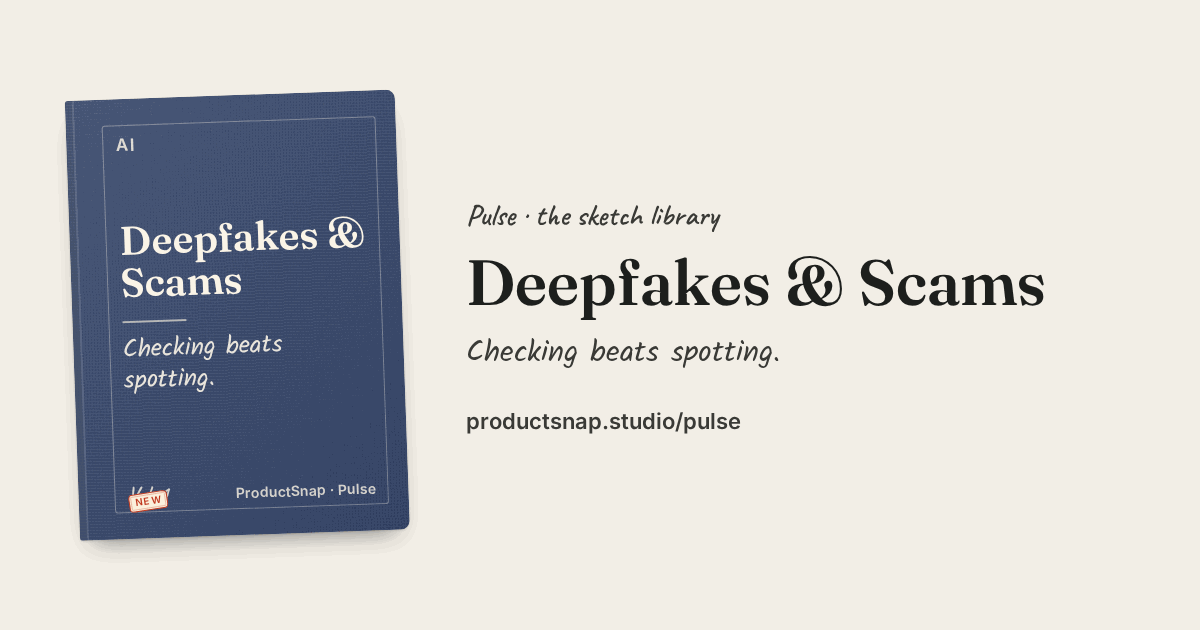
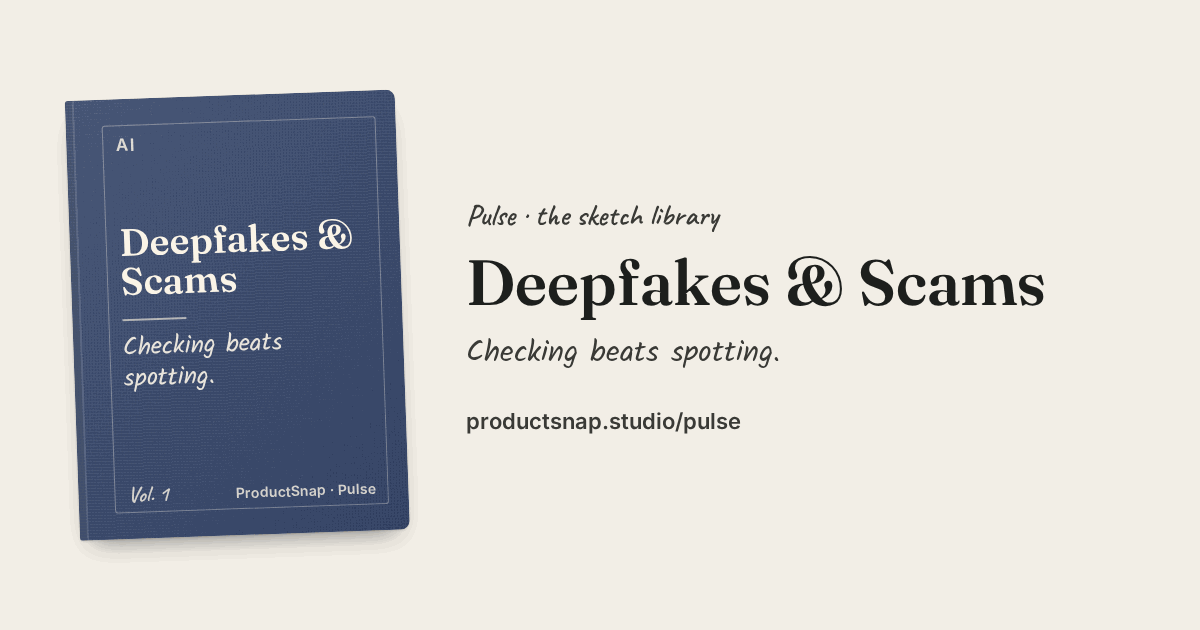
Staging: topic colours (Fintech plum, Macro green), Tech rules removed, og regenerated

Changed region(s): [[0.0925, 0.3317, 0.3083, 0.5127], [0.0925, 0.5127, 0.2467, 0.6333], [0.0925, 0.7841, 0.1542, 0.8143]]

diff --git a/css/pulse.css b/css/pulse.css
@@ -1,7 +1,7 @@
 /* Pulse — the sketch library. Uses site tokens from css/style.css. */
-:root { --t-ai:#2c3e66; --t-tech:#b7792b; --t-macro:#5f7a5a; --t-fintech:#2f6b6a; --new:#e0679a; --shelf-wood:rgba(29,31,29,.08); }
-[data-theme="dark"] { --t-ai:#8fa6d6; --t-tech:#e0ad66; --t-macro:#9cbb93; --t-fintech:#7fc0bb; --new:#f08bb5; --shelf-wood:rgba(243,234,217,.08); }
-.t-ai{--tc:var(--t-ai)} .t-tech{--tc:var(--t-tech)} .t-macro{--tc:var(--t-macro)} .t-fintech{--tc:var(--t-fintech)}
+:root { --t-ai:#2c3e66; --t-macro:#3b7436; --t-fintech:#7535b6; --new:#e0679a; --shelf-wood:rgba(29,31,29,.08); }
+[data-theme="dark"] { --t-ai:#8fa6d6; --t-macro:#8fd08a; --t-fintech:#b779d8; --new:#f08bb5; --shelf-wood:rgba(243,234,217,.08); }
+.t-ai{--tc:var(--t-ai)} .t-macro{--tc:var(--t-macro)} .t-fintech{--tc:var(--t-fintech)}
 .sr-only{position:absolute;width:1px;height:1px;overflow:hidden;clip:rect(0 0 0 0);white-space:nowrap}
 
 .lib{max-width:1180px;margin:0 auto;padding:clamp(28px,6vw,72px) clamp(16px,4vw,40px) 80px}
@@ -25,7 +25,6 @@
 .chip:hover{border-color:var(--ink)}
 .chip[aria-pressed="true"]{background:var(--ink);color:var(--paper);border-color:var(--ink)}
 .chip.c-ai[aria-pressed="true"]{background:var(--t-ai);border-color:var(--t-ai)}
-.chip.c-tech[aria-pressed="true"]{background:var(--t-tech);border-color:var(--t-tech)}
 .chip.c-macro[aria-pressed="true"]{background:var(--t-macro);border-color:var(--t-macro)}
 .chip.c-fintech[aria-pressed="true"]{background:var(--t-fintech);border-color:var(--t-fintech)}
 .chip:disabled{opacity:.4;cursor:default}
@@ -46,13 +45,11 @@
     linear-gradient(135deg,rgba(255,255,255,.10),rgba(0,0,0,.12));
   color:#fbf5e8}
 .t-ai .cv,.cv.t-ai,.sp.t-ai{--cloth:#2c3e66}
-.cv.t-tech,.sp.t-tech{--cloth:#a86c22}
-.cv.t-macro,.sp.t-macro{--cloth:#566f51}
-.cv.t-fintech,.sp.t-fintech{--cloth:#2f6766}
+.cv.t-macro,.sp.t-macro{--cloth:#3a6e35}
+.cv.t-fintech,.sp.t-fintech{--cloth:#683296}
 [data-theme="dark"] .cv.t-ai,[data-theme="dark"] .sp.t-ai{--cloth:#33497a}
-[data-theme="dark"] .cv.t-tech,[data-theme="dark"] .sp.t-tech{--cloth:#a8702a}
-[data-theme="dark"] .cv.t-macro,[data-theme="dark"] .sp.t-macro{--cloth:#5d7a57}
-[data-theme="dark"] .cv.t-fintech,[data-theme="dark"] .sp.t-fintech{--cloth:#336f6c}
+[data-theme="dark"] .cv.t-macro,[data-theme="dark"] .sp.t-macro{--cloth:#3d7637}
+[data-theme="dark"] .cv.t-fintech,[data-theme="dark"] .sp.t-fintech{--cloth:#7c45ae}
 
 /* ---- Shelf view: spines lined up on planks ---- */
 .shelf-row.spines{--row:300px;--plank-h:14px;display:grid;grid-template-columns:repeat(auto-fill,var(--sw,56px));grid-auto-rows:var(--row);align-items:end;column-gap:6px;padding:0 14px;
@@ -87,7 +84,7 @@
 body.reading{overflow:hidden}
 .reader{position:fixed;inset:0;z-index:200;background:var(--paper);display:grid;grid-template-rows:auto 1fr auto;grid-template-columns:minmax(0,1fr);--tc:var(--t-ai)}
 .reader[hidden]{display:none}
-.reader.t-tech{--tc:var(--t-tech)} .reader.t-macro{--tc:var(--t-macro)} .reader.t-fintech{--tc:var(--t-fintech)} .t-fintech{--tc:var(--t-fintech)}
+.reader.t-macro{--tc:var(--t-macro)} .reader.t-fintech{--tc:var(--t-fintech)} .t-fintech{--tc:var(--t-fintech)}
 .rd-top{display:flex;align-items:center;gap:12px;padding:10px clamp(10px,3vw,24px);border-bottom:1px solid var(--shelf-wood)}
 .rd-head{flex:1;min-width:0;text-align:center}
 .rd-head h2{font:600 1.1rem var(--serif);margin:0;white-space:nowrap;overflow:hidden;text-overflow:ellipsis;color:var(--ink)}
@@ -232,7 +229,7 @@ body.reading{overflow:hidden}
 .saved-empty b{color:var(--ink)}
 .saved-list{list-style:none;margin:8px 0 0;padding:0;display:grid;gap:10px}
 .sv-item{display:flex;align-items:center;gap:8px;background:var(--card);border-radius:10px;padding:6px;border-left:4px solid var(--tc,var(--t-ai))}
-.sv-item.t-ai{--tc:var(--t-ai)}.sv-item.t-tech{--tc:var(--t-tech)}.sv-item.t-macro{--tc:var(--t-macro)}.sv-item.t-fintech{--tc:var(--t-fintech)} .t-fintech{--tc:var(--t-fintech)}
+.sv-item.t-ai{--tc:var(--t-ai)}.sv-item.t-macro{--tc:var(--t-macro)}.sv-item.t-fintech{--tc:var(--t-fintech)} .t-fintech{--tc:var(--t-fintech)}
 .sv-link{flex:1;display:flex;align-items:center;gap:12px;min-height:56px;text-decoration:none;color:var(--ink);min-width:0}
 .sv-thumb{width:56px;height:auto;max-height:76px;object-fit:cover;object-position:top;border-radius:4px;background:#fffdf6;flex-shrink:0}
 .sv-gist{display:grid;place-items:center;height:56px;font:600 .8rem var(--body);color:#fff;background:var(--tc)}
@@ -242,7 +239,7 @@ body.reading{overflow:hidden}
 .sv-rm{min-height:44px;min-width:44px;padding:0 10px;border:0;background:none;color:var(--ink-soft);font:600 .82rem var(--body);text-decoration:underline;cursor:pointer}
 /* Search: best page */
 .best{display:flex;align-items:center;gap:14px;margin:4px 0 22px;padding:12px 14px;border-radius:12px;background:var(--card);text-decoration:none;color:var(--ink);border-left:5px solid var(--tc);box-shadow:0 2px 10px rgba(0,0,0,.06)}
-.best.t-ai{--tc:var(--t-ai)}.best.t-tech{--tc:var(--t-tech)}.best.t-macro{--tc:var(--t-macro)}.best.t-fintech{--tc:var(--t-fintech)} .t-fintech{--tc:var(--t-fintech)}
+.best.t-ai{--tc:var(--t-ai)}.best.t-macro{--tc:var(--t-macro)}.best.t-fintech{--tc:var(--t-fintech)} .t-fintech{--tc:var(--t-fintech)}
 .best-thumb{width:64px;height:auto;max-height:84px;object-fit:cover;object-position:top;border-radius:4px;flex-shrink:0}
 .best-text{display:grid;gap:3px;flex:1;min-width:0}
 .best-k{font:700 .72rem var(--body);letter-spacing:.08em;text-transform:uppercase;color:color-mix(in srgb,var(--tc) 70%,#000)}
@@ -340,7 +337,7 @@ body.page-pulse{--paper:#f3efe7;--paper-2:#ece6da;--card:#fbf9f4;background:#f3e
 .lib-bar{margin:18px 0 8px;justify-content:flex-start}
 .topictabs .chip{gap:7px;background:var(--card);border:1px solid color-mix(in srgb,var(--ink) 15%,transparent);color:var(--ink);padding:6px 14px 6px 12px}
 .topictabs .chip .ci{color:var(--tc,var(--ink-soft))}
-.chip.c-ai{--tc:var(--t-ai)}.chip.c-tech{--tc:var(--t-tech)}.chip.c-macro{--tc:var(--t-macro)}.chip.c-fintech{--tc:var(--t-fintech)}
+.chip.c-ai{--tc:var(--t-ai)}.chip.c-macro{--tc:var(--t-macro)}.chip.c-fintech{--tc:var(--t-fintech)}
 .topictabs .chip .cn{color:var(--ink-faded);font-weight:500}
 .topictabs .chip[aria-pressed="true"]{color:#fff}
 .topictabs .chip[data-topic="All"][aria-pressed="true"]{background:var(--ink);color:var(--paper)}
@@ -516,13 +513,11 @@ a.sp:focus-visible{outline:none}
 /* ---- paper stock per topic (subtle; text contrast checked in QA) ---- */
 .reader{--stock:none;background:var(--stock),var(--paper)}
 .reader.t-ai{--stock:repeating-linear-gradient(90deg,rgba(110,84,40,.05) 0 1px,transparent 1px 6px),repeating-linear-gradient(0deg,rgba(110,84,40,.07) 0 1px,transparent 1px 72px)}
-.reader.t-fintech{--stock:linear-gradient(90deg,transparent 46px,rgba(196,72,60,.16) 46px 47px,transparent 47px 50px,rgba(196,72,60,.12) 50px 51px,transparent 51px),repeating-linear-gradient(0deg,transparent 0 25px,rgba(47,107,106,.11) 25px 26px)}
+.reader.t-fintech{--stock:linear-gradient(90deg,transparent 46px,rgba(117,53,182,.16) 46px 47px,transparent 47px 50px,rgba(117,53,182,.12) 50px 51px,transparent 51px),repeating-linear-gradient(0deg,transparent 0 25px,rgba(117,53,182,.11) 25px 26px)}
 .reader.t-macro{--stock:linear-gradient(rgba(44,98,150,.12) 1px,transparent 1px) 0 0/120px 120px,linear-gradient(90deg,rgba(44,98,150,.12) 1px,transparent 1px) 0 0/120px 120px,linear-gradient(rgba(44,98,150,.07) 1px,transparent 1px) 0 0/24px 24px,linear-gradient(90deg,rgba(44,98,150,.07) 1px,transparent 1px) 0 0/24px 24px}
-.reader.t-tech{--stock:radial-gradient(rgba(150,100,30,.12) 1px,transparent 1.4px) 0 0/16px 16px}
 [data-theme="dark"] .reader.t-ai{--stock:repeating-linear-gradient(90deg,rgba(240,222,180,.035) 0 1px,transparent 1px 6px),repeating-linear-gradient(0deg,rgba(240,222,180,.05) 0 1px,transparent 1px 72px)}
-[data-theme="dark"] .reader.t-fintech{--stock:linear-gradient(90deg,transparent 46px,rgba(235,120,105,.2) 46px 47px,transparent 47px 50px,rgba(235,120,105,.12) 50px 51px,transparent 51px),repeating-linear-gradient(0deg,transparent 0 25px,rgba(127,192,187,.11) 25px 26px)}
+[data-theme="dark"] .reader.t-fintech{--stock:linear-gradient(90deg,transparent 46px,rgba(183,121,216,.2) 46px 47px,transparent 47px 50px,rgba(183,121,216,.12) 50px 51px,transparent 51px),repeating-linear-gradient(0deg,transparent 0 25px,rgba(183,121,216,.11) 25px 26px)}
 [data-theme="dark"] .reader.t-macro{--stock:linear-gradient(rgba(140,180,230,.1) 1px,transparent 1px) 0 0/120px 120px,linear-gradient(90deg,rgba(140,180,230,.1) 1px,transparent 1px) 0 0/120px 120px,linear-gradient(rgba(140,180,230,.055) 1px,transparent 1px) 0 0/24px 24px,linear-gradient(90deg,rgba(140,180,230,.055) 1px,transparent 1px) 0 0/24px 24px}
-[data-theme="dark"] .reader.t-tech{--stock:radial-gradient(rgba(240,200,130,.1) 1px,transparent 1.4px) 0 0/16px 16px}
 .pg-gist,.pg-end{background:var(--stock),var(--card)}
 .rd-top{background:color-mix(in srgb,var(--paper) 90%,transparent)}
 
@@ -597,7 +592,7 @@ a.sp:focus-visible{outline:none}
 .nbr-tx{display:grid;gap:1px;min-width:0}
 .nbr-t{font:600 .95rem/1.25 var(--serif)}
 .nbr-why{font:.78rem/1.3 var(--body);color:var(--ink-soft)}
-.t-ai.nbr{--cloth:#2c3e66}.t-tech.nbr{--cloth:#a86c22}.t-macro.nbr{--cloth:#566f51}.t-fintech.nbr{--cloth:#2f6766}
+.t-ai.nbr{--cloth:#2c3e66}.t-macro.nbr{--cloth:#3a6e35}.t-fintech.nbr{--cloth:#683296}
 
 /* ---- Saved + misc polish ---- */
 .saved-panel{background:var(--paper);background-image:radial-gradient(color-mix(in srgb,var(--ink) 9%,transparent) 1px,transparent 1.3px);background-size:18px 18px}

diff --git a/js/pulse.js b/js/pulse.js
@@ -4,7 +4,7 @@
    Deep links: #book/<id>/<page>  (1-based, counting the gist page). #topics opens Topics. */
 (function () {
   "use strict";
-  var TOPICS = { AI: "AI", Tech: "Tech", Fintech: "Fintech", Macro: "Macro" };
+  var TOPICS = { AI: "AI", Fintech: "Fintech", Macro: "Macro" };
   var LS = { seen: "pulse_seen", opens: "pulse_opens", bm: "pulse_bm_", prog: "pulse_prog_", sound: "pulse_sound", saved: "pulse_saved", last: "pulse_last", lastX: "pulse_last_x" };
   var START = [["ai-basics", "AI Basics"], ["ai-agents", "AI Agents"], ["stablecoins", "Stablecoins"], ["mortgage-rates", "Mortgages"]];
   var ICONS = {
@@ -385,7 +385,6 @@
     topics: '<rect x="4" y="4" width="6.5" height="6.5" rx="1.5"/><rect x="13.5" y="4" width="6.5" height="6.5" rx="1.5"/><rect x="4" y="13.5" width="6.5" height="6.5" rx="1.5"/><rect x="13.5" y="13.5" width="6.5" height="6.5" rx="1.5"/>',
     All: '<path d="M4 6h16M4 12h16M4 18h10"/>',
     AI: '<rect x="6" y="6" width="12" height="12" rx="2"/><path d="M9.5 9.5h5v5h-5zM9 3v3M15 3v3M9 18v3M15 18v3M3 9h3M3 15h3M18 9h3M18 15h3"/>',
-    Tech: '<rect x="3.5" y="5" width="17" height="11" rx="1.5"/><path d="M2 19.5h20M10 8.5l-2 2 2 2M14 8.5l2 2-2 2"/>',
     Fintech: '<rect x="3" y="6" width="18" height="12" rx="2"/><path d="M3 10h18M7 14.5h4"/>',
     Macro: '<path d="M3 20h18"/><path d="M4 16l5-5 4 3 7-8"/><path d="M15 6h5v5"/>'
   };
@@ -623,7 +622,7 @@
     index(b).raw.split(/[\s-]+/).forEach(function (w) { if (w.length > 3 && STOP.indexOf(w) < 0) o[w] = 1; });
     return (b._rw = o);
   }
-  var NEXT_DOOR = { AI: ["Fintech"], Fintech: ["Macro", "AI"], Macro: ["Fintech"], Tech: ["AI"] };
+  var NEXT_DOOR = { AI: ["Fintech"], Fintech: ["Macro", "AI"], Macro: ["Fintech"] };
   function related(b, skip) {
     if (!lib._df) { lib._df = {}; lib.books.forEach(function (x) { Object.keys(rawWords(x)).forEach(function (w) { lib._df[w] = (lib._df[w] || 0) + 1; }); }); }
     var mine = rawWords(b), N = lib.books.length;
@@ -1086,7 +1085,7 @@
   fetch("data/library.json", { cache: "no-cache" })
     .then(function (r) { if (!r.ok) throw new Error("HTTP " + r.status); return r.json(); })
     .then(function (d) {
-      lib = d; lib.books.forEach(function (b) { if (!TOPICS[b.topic]) b.topic = "Tech"; });
+      lib = d; lib.books.forEach(function (b) { if (!TOPICS[b.topic]) b.topic = "Fintech"; });
       wire(); wireTips(); wireKbdDismiss(); savedBadge(); renderTabs(); heroMeta(); renderShelves(); newBadge(); rotateHints();
       if (location.hash && location.hash !== "#topics") route();
     })

diff --git a/js/main.js b/js/main.js
@@ -291,7 +291,7 @@
         const counts = {};
         books.forEach((x) => { counts[x.topic] = (counts[x.topic] || 0) + 1; });
         const stats = document.getElementById("home-pulse-stats");
-        if (stats) stats.textContent = books.length + " books · " + ["AI", "Tech", "Fintech", "Macro"].filter((t) => counts[t]).map((t) => t + " " + counts[t]).join(" · ");
+        if (stats) stats.textContent = books.length + " books · " + ["AI", "Fintech", "Macro"].filter((t) => counts[t]).map((t) => t + " " + counts[t]).join(" · ");
       })
       .catch((err) => {
         console.error("Home Pulse: failed to load library", err);

diff --git a/scripts/build_share.py b/scripts/build_share.py
@@ -76,7 +76,7 @@ try:
                 '<div style="font:600 22px var(--body);color:var(--ink-soft);margin-top:34px">productsnap.studio/pulse</div>';
               st.append(w, t); document.body.append(st);
               if (!document.getElementById('og-css')) { const k = document.createElement('style'); k.id = 'og-css';
-                k.textContent = '#og-stage .cv-ico{display:none}#og-stage .cv{container-type:normal}#og-stage .cv-topic{font-size:17px}#og-stage .cv-title{font-size:40px}#og-stage .cv-tag{font-size:25px}#og-stage .cv-foot{font-size:14px}#og-stage .cv-vol{font-size:22px}#og-stage .cv-start{font-size:15px}';
+                k.textContent = '#og-stage .cv-ico{display:none}#og-stage .cv{container-type:normal}#og-stage .cv-topic{font-size:17px}#og-stage .cv-title{font-size:38px;hyphens:manual}#og-stage .cv-stamp{display:none}#og-stage .cv-tag{font-size:25px}#og-stage .cv-foot{font-size:14px}#og-stage .cv-vol{font-size:22px}#og-stage .cv-start{font-size:15px}';
                 document.head.append(k); }
             }""", b["id"])
             pg.wait_for_timeout(120)

diff --git a/scripts/add_book.py b/scripts/add_book.py
@@ -29,7 +29,7 @@ from PIL import Image
 ROOT = os.path.dirname(os.path.dirname(os.path.abspath(__file__)))
 LIB = os.path.join(ROOT, "data", "library.json")
 ASSETS = os.path.join(ROOT, "assets", "pulse")
-TOPICS = ("AI", "Tech", "Fintech", "Macro")
+TOPICS = ("AI", "Fintech", "Macro")
 MAX_W, THUMB_W = 1600, 480
 
 
